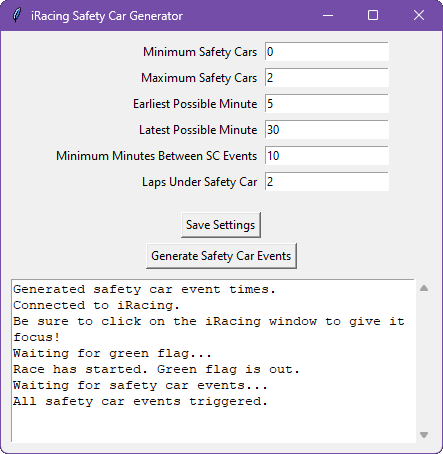
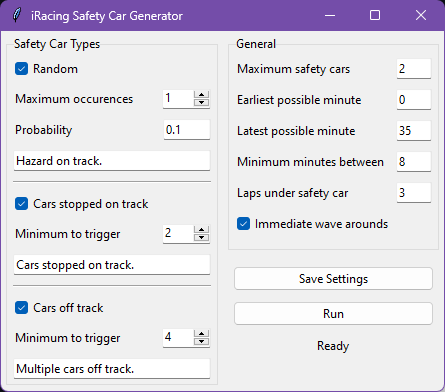
Updated readme

diff --git a/README.md b/README.md
@@ -1,6 +1,6 @@
 # iRacing Safety Car Generator
 
-This program is designed to trigger safety car events in iRacing at random intervals during a race, with adjustable settings. It's in the early stages of development, so there may be bugs and issues.
+This program is designed to trigger safety car events in iRacing with more control than the built-in automatic yellows in iRacing, with adjustable settings. It's in the early stages of development, so there may be bugs and issues.
 
 ![Screenshot of the main window](screenshot.png)
 
@@ -8,7 +8,7 @@ This program is designed to trigger safety car events in iRacing at random inter
 
 1. Set your settings in the applicaiton window, then click the `Save Settings` button.
 
-2. Click the `Generate Safety Car Events` button while drivers are gridding for the race to begin the program.
+2. Click the `Run` button while drivers are gridding for the race to begin the program.
 
 3. Make sure to click back to the iRacing window so the program can send the necessary commands to trigger the safety car(s)!
 
